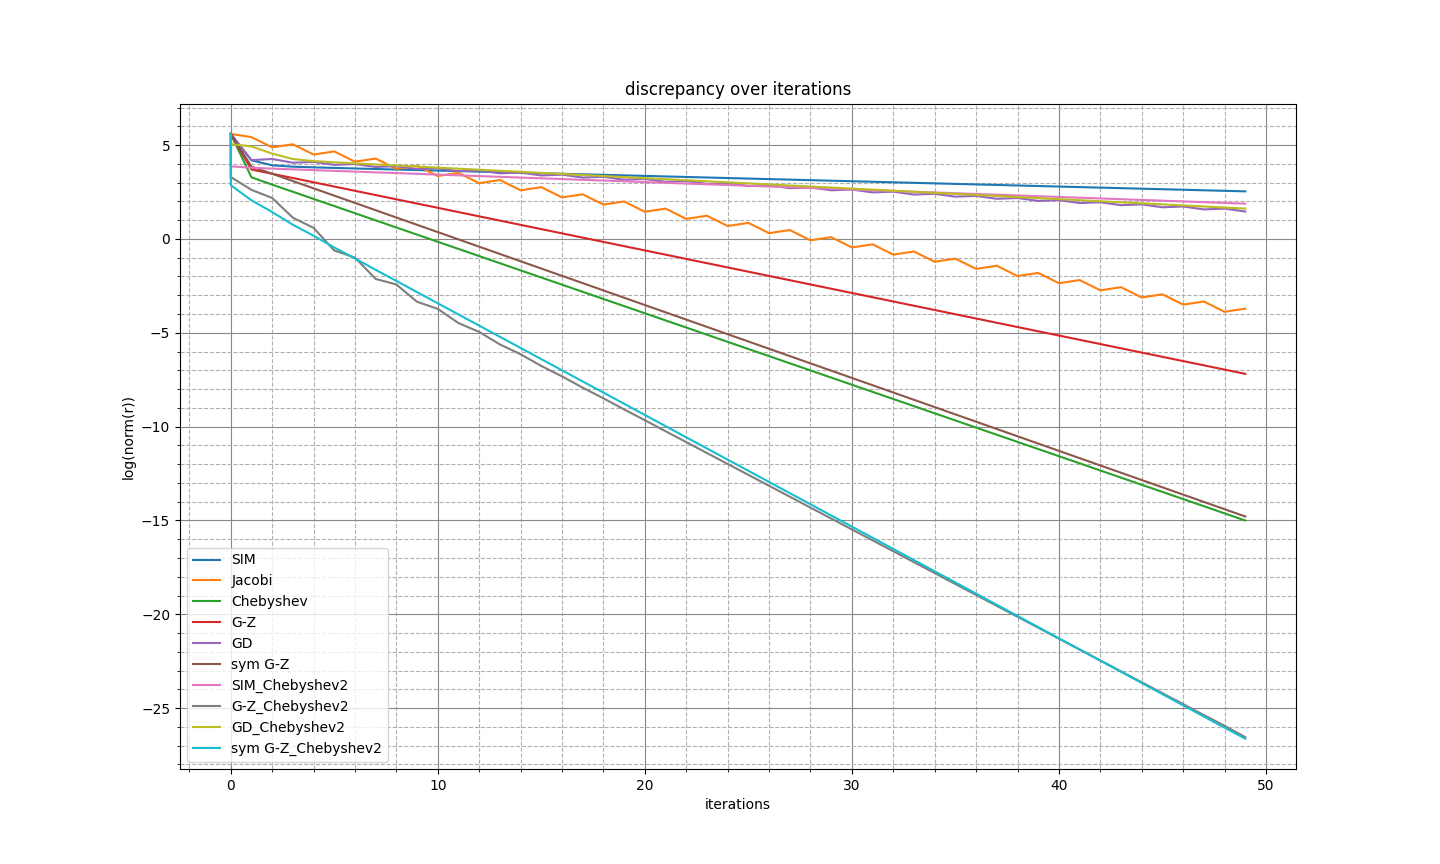
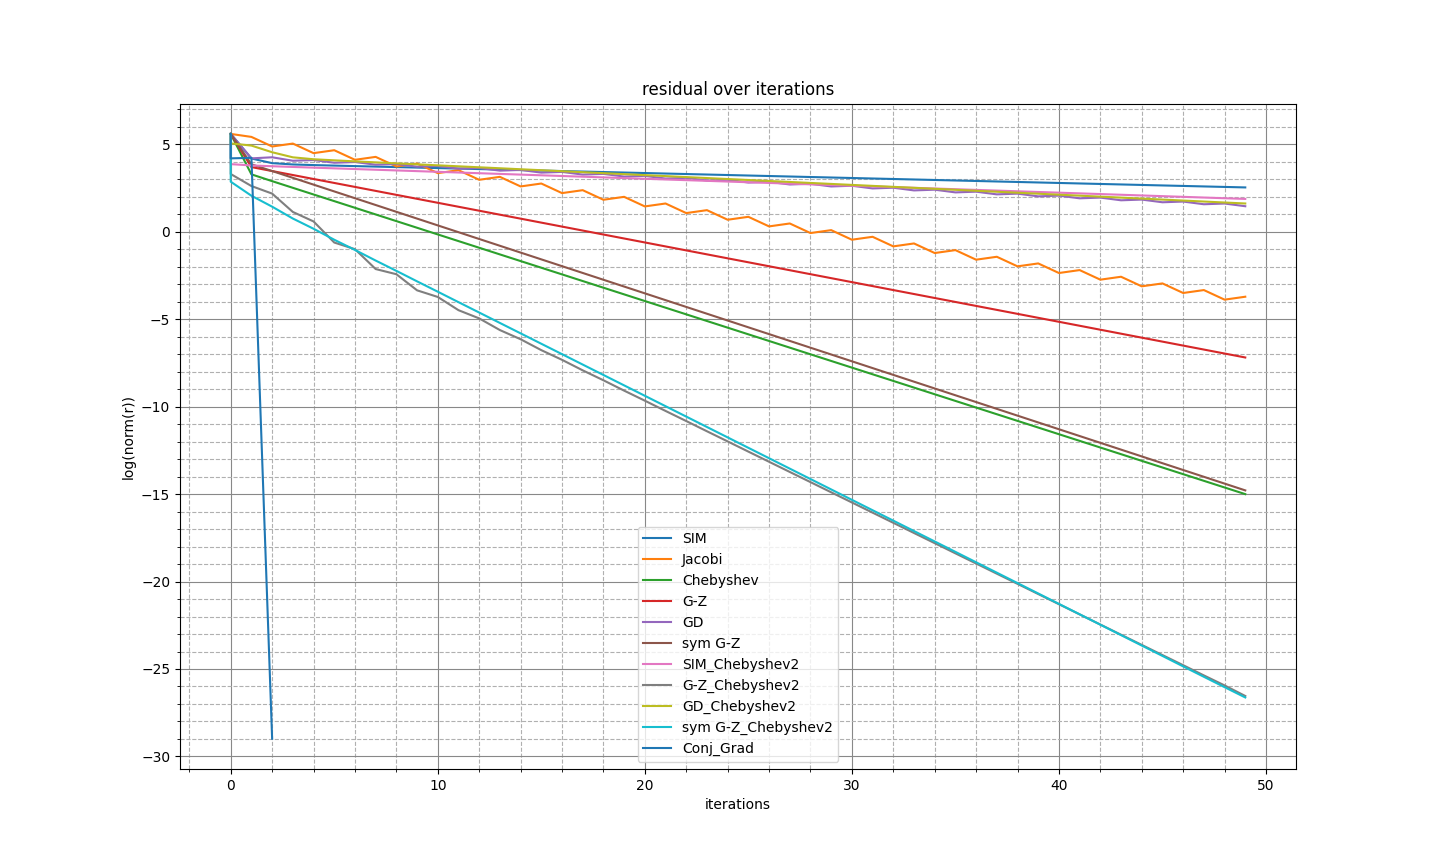
7th homework

Changed region(s): [[0.0938, 0.0938, 0.875, 0.9062]]

diff --git a/my_lib/my/CSR_matrix.h b/my_lib/my/CSR_matrix.h
@@ -104,7 +104,7 @@ T CSR_matrix<T>::lambda_max() const
 template <typename T>
 vec<T> Simple_Iteration_Method(CSR_matrix<T> const &A, vec<T> const &b, vec<T> const &x0, T const &tol, std::size_t const &Nmax)
 {
-    T tau = 1 / A.lambda_max();
+    T tau = 1 / A.lambda_max(); 
     vec<T> x = x0;
     vec<T> r; 
     for (std::size_t it = 0; it < Nmax; ++it)
@@ -288,6 +288,30 @@ vec<T> Chebyshev2(CSR_matrix<T> const &A, vec<T> const &b, vec<T> const &x0, T c
     }
     return x;
 }
+
+template <typename T>
+vec<T> Conjugate_Gradient_Method(CSR_matrix<T> const &A, vec<T> const &b, vec<T> const &x0, T const &tol)
+{
+    T alpha, beta = 0;
+    vec<T> x = x0;
+    vec<T> r = A * x - b, r_prev;
+    vec<T> d = r;
+    for (std::size_t it = 0; it < x.size(); ++it)                       // вычислительная сложность O(n^2)
+    {                                                                   // по памяти О(n)
+        if (norm(r) < tol) break;                                       //
+                                                                        //
+        alpha = dot(r, r) / dot(d, A * d);                              //
+        x = x - alpha * d;                                              //
+        
+        r_prev = r;
+        r = A * x - b;
+        
+        beta = dot(r, r) / dot(r_prev, r_prev);
+        d = r + beta * d;
+    }
+    return x;
+}
+
 /*
 template <typename T>
 std::size_t  Gauss_Zejdel_Method_kr(CSR_matrix<T> const &A, vec<T> const &b, vec<T> const &x0, T const &tol, std::size_t const &Nmax)

diff --git a/my_lib/test/test_csr_matrix.cpp b/my_lib/test/test_csr_matrix.cpp
@@ -160,7 +160,23 @@ TEST(CSR_matrix, Chebyshev2_SIM)
     vec<double> expected = {1, 2, 3};
     for (std::size_t j = 0; j < 3; ++j)
         EXPECT_NEAR(expected[j], x[j], 0.01);
-} 
+}
+
+TEST(CSR_matrix, Conjugate_Gradient_Method)
+{
+    vec<double> vals = {1, 2, 0, 2, 6, 1, 0, 1, 10};
+    Matrix<double> M(vals , 3);
+    CSR_matrix<double> A(M);
+
+    vec<double> x0 = {4, 4, 4};
+    vec<double> b = {5, 17, 32};
+    double tol = 1e-20;
+    vec<double> x = Conjugate_Gradient_Method(A, b, x0, tol);
+    vec<double> expected = {1, 2, 3};
+    for (std::size_t j = 0; j < 3; ++j)
+        EXPECT_NEAR(expected[j], x[j], 0.01);
+}
+
 /*
 TEST(CSR_matrix, Chebyshev2_JacobiMethod)
 {
